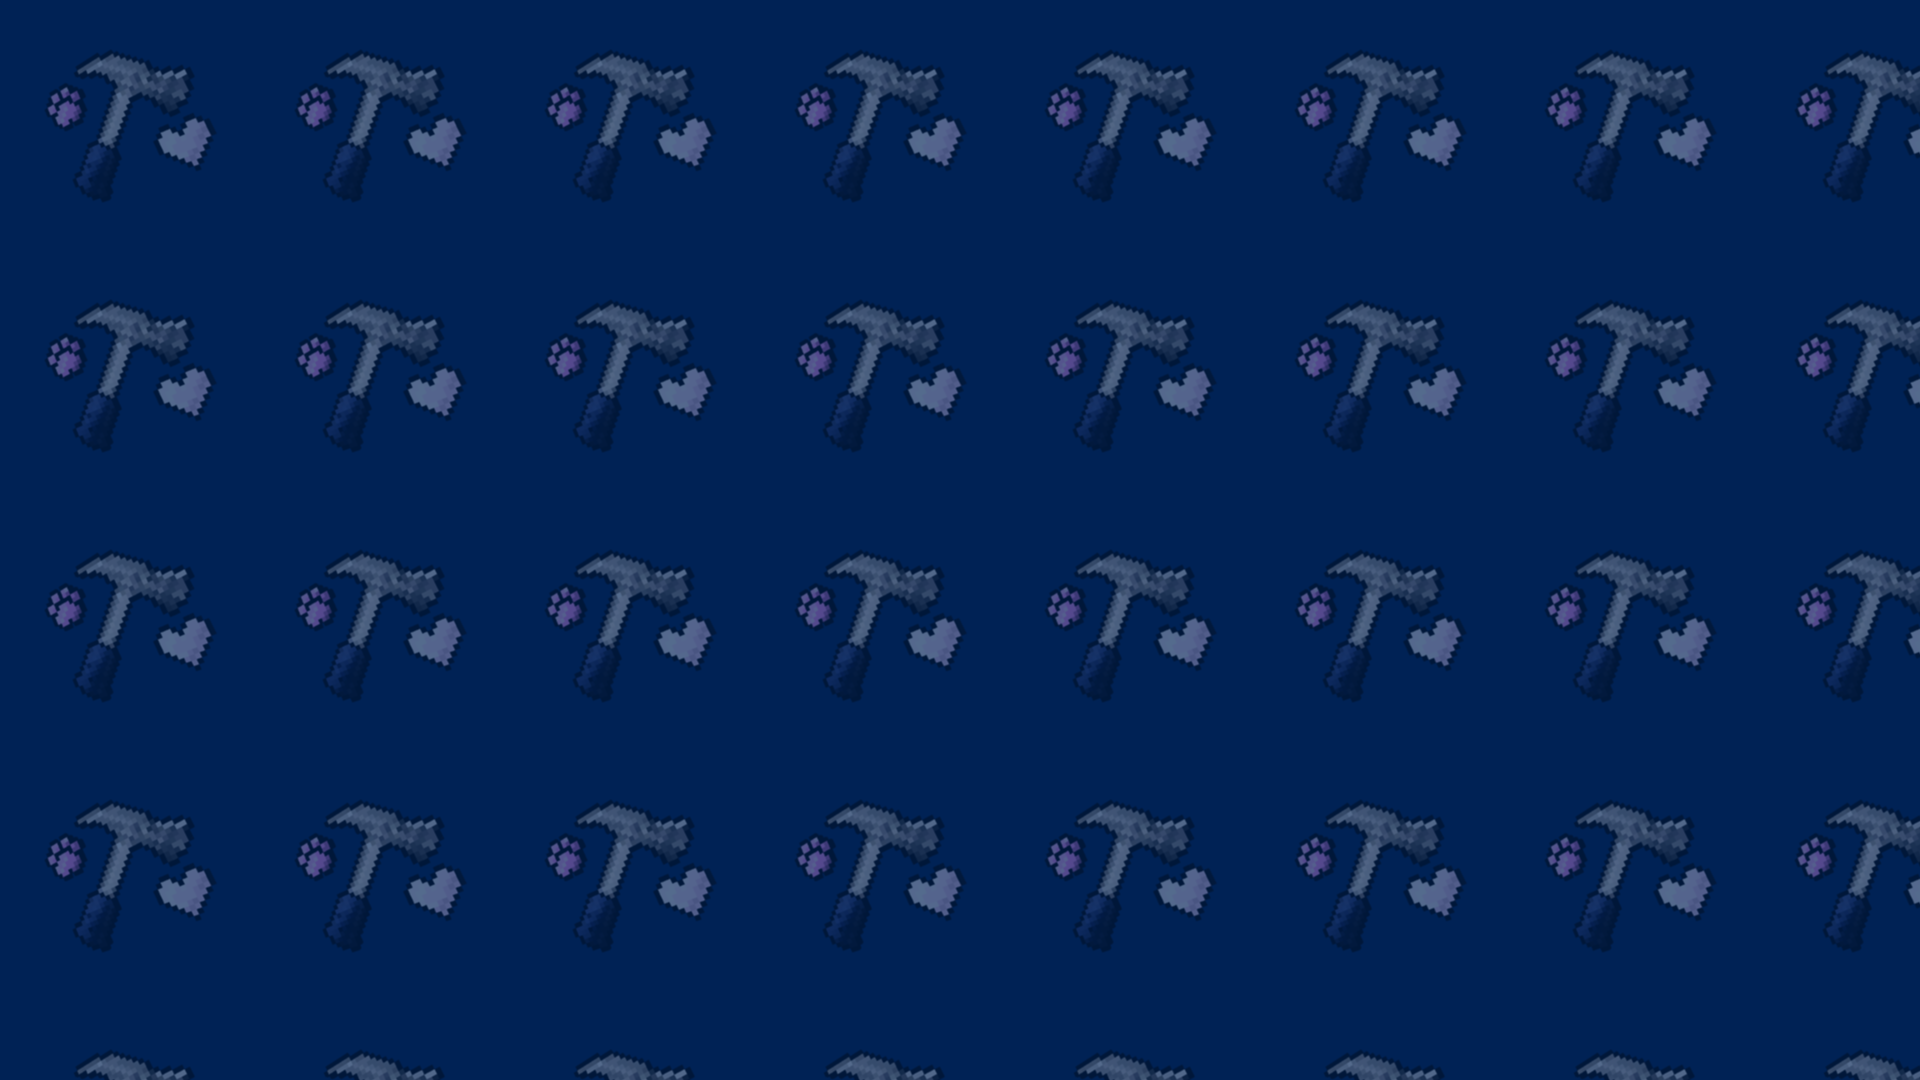
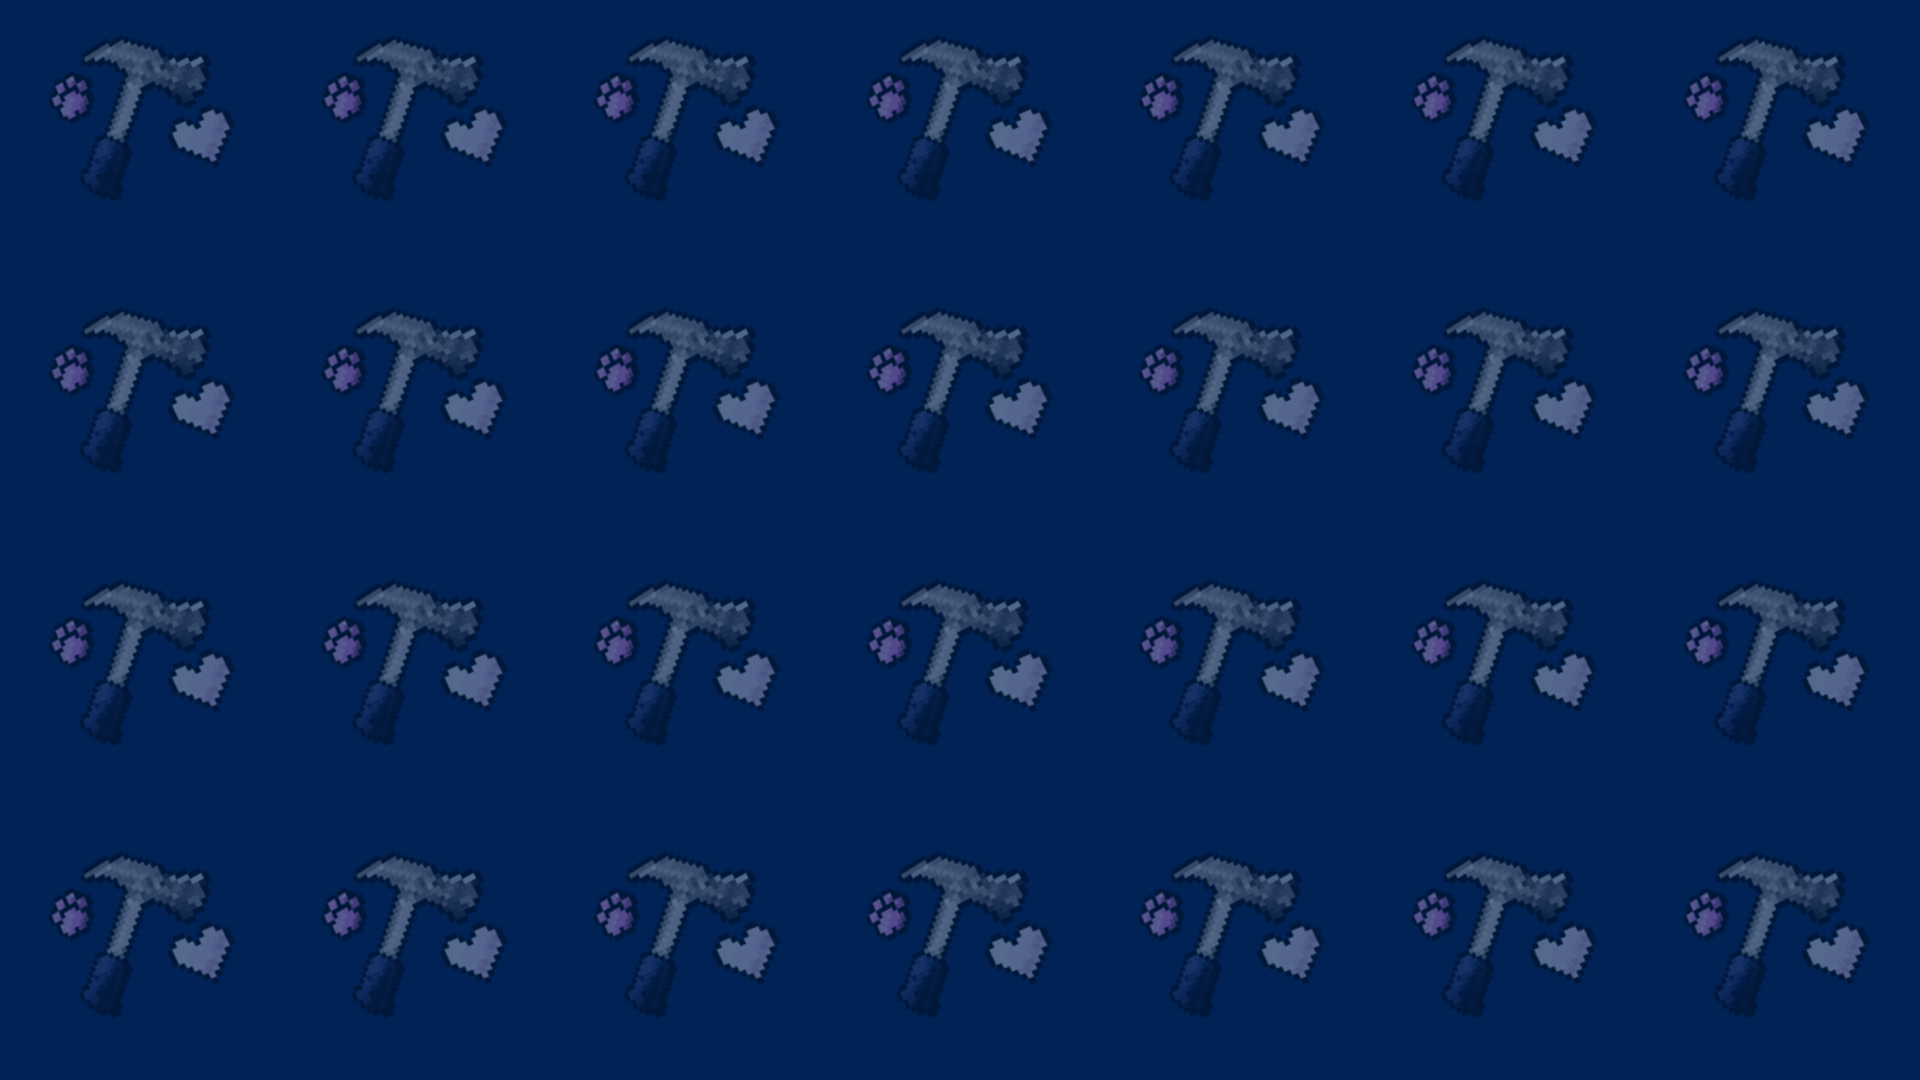
scrolling background

diff --git a/src/index.css b/src/index.css
@@ -489,13 +489,21 @@ input[type="number"] {
 }
 
 .constructionDiv{
-  background: url(assets/img/tiledHammer.png);
-  background-repeat: no-repeat;
-  background-size: cover;
-  background-position: top;
+  background: url(assets/img/tiledHammer.png) repeat;
+  animation: backgroundScroll 15s linear infinite;
   width: 100%;
   height: 84%;
   padding: 0;
+}
+
+@keyframes backgroundScroll {
+  0% {
+    background-position: 0 0;
+  }
+  100% {
+    /* pattern bg texture is 1000x1000px */
+    background-position:1920px -1080px;
+  }
 }
 
 .buttonSection {
@@ -907,3 +915,4 @@ option:active {
 .sc-aXZVg:nth-child(8) h1{
   color: #ee82ee;
 }
+
